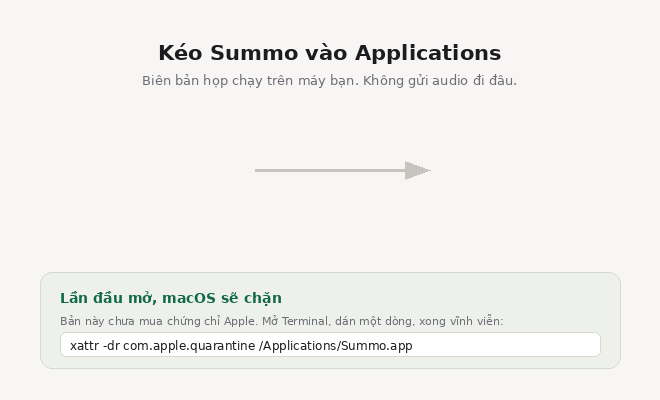
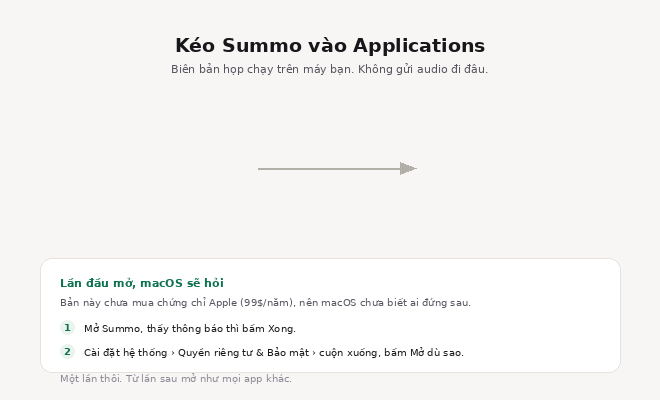
fix(macos): the first launch never needed a terminal
The disk image told a first-time Mac user to open Terminal and paste a command. The README said the
same, and so did the download page. It was wrong, and the check that was supposed to establish it
had only read one line of one tool's output.

Asked properly — `syspolicy_check`, which ships with macOS and exists for this question:

    /Applications/Summo.app: valid on disk
    /Applications/Summo.app: satisfies its Designated Requirement
    Adhoc Signed App — Severity: Warning
    Notary Ticket Missing

`spctl` answering `rejected` means "will not open on its own". It does not mean "cannot be opened".
A signature that is valid but vouched for by nobody gets the "cannot verify the developer" dialog
and an **Open Anyway** button in System Settings; only a *broken* signature gets "is damaged", where
that button never appears and a terminal is the only way through. v0.2.0 was exactly that — it was
not signed at all — and the wording written for it outlived the bug by four releases.

So the `.dmg` window now names the two buttons to press, and it is drawn by
`scripts/dmg-background.py` rather than being a PNG nobody can regenerate. The command stays in the
README for whoever prefers typing.

What actually removes the step is a Developer ID and notarisation, $99 a year — which is what every
comparable app has, and the honest answer to "why do those not ask me to do anything".

diff --git a/scripts/dmg-background.py b/scripts/dmg-background.py
@@ -1,0 +1,123 @@
+#!/usr/bin/env python3
+"""The picture inside the disk image, drawn rather than checked in as a mystery.
+
+    python3 scripts/dmg-background.py
+
+It is the first thing a Mac user sees, and until now it told them to open Terminal:
+
+    Lần đầu mở, macOS sẽ chặn
+    Bản này chưa mua chứng chỉ Apple. Mở Terminal, dán một dòng, xong vĩnh viễn:
+    xattr -dr com.apple.quarantine /Applications/Summo.app
+
+That is not what macOS does, and asking somebody to paste a command into a terminal to open a
+meeting-notes app loses most of them at the first step. Asked directly, macOS says the signature is
+fine:
+
+    /Applications/Summo.app: valid on disk
+    /Applications/Summo.app: satisfies its Designated Requirement
+    syspolicy_check: Adhoc Signed App — Severity: Warning
+                     Notary Ticket Missing
+
+A *valid* signature that nobody vouches for gets the "cannot be opened because Apple cannot check
+it" dialog and an **Open Anyway** button in System Settings. Only a *broken* signature gets "is
+damaged", where that button never appears and a terminal is the only way through — which is what
+v0.2.0 shipped, and which is where the wording came from and stayed after the cause was fixed.
+
+So the panel says which two buttons to press. The command stays in the README for whoever prefers
+it; it is not what a first-time user should be reading.
+
+Both sizes are written: the `@2x` is what a Retina Mac actually shows, and it is the one that was
+half a version behind last time somebody edited these by hand.
+"""
+
+from pathlib import Path
+
+from PIL import Image, ImageDraw, ImageFont
+
+HERE = Path(__file__).resolve().parent.parent
+OUT = HERE / "apps/desktop/src-tauri/dmg"
+
+# The window is 660×400; `tauri.conf.json` puts the app at x=180 and Applications at x=480, both at
+# y=170, so everything drawn here has to stay out of the band between them.
+SIZE = (660, 400)
+
+PAPER = (247, 246, 244)
+INK = (23, 22, 26)
+DIM = (86, 84, 94)
+FAINT = (140, 137, 148)
+ACCENT = (15, 115, 80)
+LINE = (230, 227, 222)
+CARD = (255, 255, 255)
+
+FONTS = "/usr/share/fonts/truetype"
+
+
+def font(name: str, size: int) -> ImageFont.FreeTypeFont:
+    """A face that can draw Vietnamese. DejaVu has the diacritics; Liberation does not."""
+    return ImageFont.truetype(f"{FONTS}/dejavu/{name}", size)
+
+
+def rounded(draw: ImageDraw.ImageDraw, box, radius, fill, outline=None, width=1) -> None:
+    draw.rounded_rectangle(box, radius=radius, fill=fill, outline=outline, width=width)
+
+
+def compose(scale: int) -> Image.Image:
+    image = Image.new("RGB", (SIZE[0] * scale, SIZE[1] * scale), PAPER)
+    draw = ImageDraw.Draw(image)
+
+    def at(x: float, y: float) -> tuple[float, float]:
+        return (x * scale, y * scale)
+
+    def text(x, y, string, face, fill, anchor="la") -> None:
+        draw.text(at(x, y), string, font=face, fill=fill, anchor=anchor)
+
+    title = font("DejaVuSans-Bold.ttf", 19 * scale)
+    lead = font("DejaVuSans.ttf", 11 * scale)
+    label = font("DejaVuSans-Bold.ttf", 11 * scale)
+    body = font("DejaVuSans.ttf", 10 * scale)
+    step = font("DejaVuSans-Bold.ttf", 10 * scale)
+
+    text(330, 34, "Kéo Summo vào Applications", title, INK, anchor="ma")
+    text(330, 62, "Biên bản họp chạy trên máy bạn. Không gửi audio đi đâu.", lead, DIM, anchor="ma")
+
+    # The arrow between the two icons, which Finder draws at y=170.
+    y = 168
+    draw.line([at(258, y), at(400, y)], fill=(178, 175, 168), width=2 * scale)
+    draw.polygon(
+        [at(400, y - 6), at(416, y), at(400, y + 6)],
+        fill=(178, 175, 168),
+    )
+
+    # What happens the first time, in the two presses it actually takes.
+    top = 258
+    rounded(draw, [at(40, top), at(620, 372)], 12 * scale, CARD, LINE, max(1, scale))
+
+    text(60, top + 18, "Lần đầu mở, macOS sẽ hỏi", label, ACCENT)
+    text(
+        60,
+        top + 38,
+        "Bản này chưa mua chứng chỉ Apple (99$/năm), nên macOS chưa biết ai đứng sau.",
+        body,
+        DIM,
+    )
+
+    for index, (number, line) in enumerate(
+        [
+            ("1", "Mở Summo, thấy thông báo thì bấm Xong."),
+            ("2", "Cài đặt hệ thống › Quyền riêng tư & Bảo mật › cuộn xuống, bấm Mở dù sao."),
+        ]
+    ):
+        row = top + 62 + index * 24
+        draw.ellipse([at(60, row), at(74, row + 14)], fill=(235, 243, 239))
+        text(67, row + 7, number, step, ACCENT, anchor="mm")
+        text(84, row + 2, line, body, INK)
+
+    text(60, top + 114, "Một lần thôi. Từ lần sau mở như mọi app khác.", body, FAINT)
+
+    return image
+
+
+for scale, name in ((1, "background.png"), (2, "background@2x.png")):
+    picture = compose(scale)
+    picture.save(OUT / name)
+    print(f"{name} — {picture.size[0]}×{picture.size[1]}")

diff --git a/README.vi.md b/README.vi.md
@@ -87,20 +87,29 @@ phát hành, đánh dấu nó đúng như trình duyệt đánh dấu file tải
 
 ```
 Signature=adhoc
-/Applications/Summo.app: rejected      (spctl, macOS 26.5)
+/Applications/Summo.app: rejected            (spctl)
+/Applications/Summo.app: valid on disk       (codesign --verify --deep --strict)
+/Applications/Summo.app: satisfies its Designated Requirement
+Adhoc Signed App — Severity: Warning         (syspolicy_check, macOS 26.5)
+Notary Ticket Missing
 ```
 
-`rejected`, không phải "cảnh báo rồi cho đi tiếp". Chữ ký ad-hoc đủ để nhân Apple Silicon chịu *nạp*
-binary — không có nó thì máy từ chối thẳng với "Summo is damaged and can't be opened" — nhưng
-Gatekeeper vẫn chặn bản tải về, vì không có chứng chỉ Apple đứng sau. Một dòng, một lần:
+Bốn dòng đó nói hai chuyện khác nhau, và trước đây README này chỉ đọc dòng đầu. `rejected` nghĩa là
+**không tự mở**, không phải **không mở được**: chữ ký vẫn hợp lệ và đúng Designated Requirement, nên
+macOS hiện hộp thoại "không xác minh được nhà phát triển" và để lại nút **Mở dù sao** trong Cài đặt
+hệ thống › Quyền riêng tư & Bảo mật. Bấm một lần, xong vĩnh viễn.
+
+Chỉ khi chữ ký *hỏng* mới ra "Summo is damaged and can't be opened" — lúc đó không có nút nào cả và
+Terminal là đường duy nhất. Bản v0.2.0 đúng là như vậy, vì nó hoàn toàn không được ký; câu chữ dặn
+người dùng mở Terminal ra đời từ đó và ở lại lâu hơn nguyên nhân của nó.
+
+Nếu bạn thích gõ hơn là bấm, dòng này làm cùng việc:
 
 ```bash
 xattr -dr com.apple.quarantine /Applications/Summo.app
 ```
 
-Dòng này in sẵn trong cửa sổ của `.dmg`, ngay cạnh chỗ kéo thả, nên không phải đi tìm ở đâu cả.
-
-**Không có cách miễn phí nào bỏ được nó.** Đường chính thức của Apple là Developer ID + notarize,
+**Không có cách miễn phí nào bỏ hẳn bước đó.** Đường chính thức của Apple là Developer ID + notarize,
 99 đô một năm. Phần việc phía Summo đã làm xong và đang chờ: đặt bốn secret (`APPLE_CERTIFICATE`,
 `APPLE_CERTIFICATE_PASSWORD`, `APPLE_SIGNING_IDENTITY`, `APPLE_ID`/`APPLE_PASSWORD`/`APPLE_TEAM_ID`)
 là bản tag kế tiếp tự ký và tự notarize — xem `.github/workflows/release.yml`.

diff --git a/README.md b/README.md
@@ -86,22 +86,29 @@ and this is measured rather than assumed: `.github/workflows/gatekeeper.yml` dow
 
 ```
 Signature=adhoc
-/Applications/Summo.app: rejected      (spctl, macOS 26.5)
+/Applications/Summo.app: rejected            (spctl)
+/Applications/Summo.app: valid on disk       (codesign --verify --deep --strict)
+/Applications/Summo.app: satisfies its Designated Requirement
+Adhoc Signed App — Severity: Warning         (syspolicy_check, macOS 26.5)
+Notary Ticket Missing
 ```
 
-`rejected` — not "warned about and let through". The ad-hoc signature is what keeps Apple Silicon
-willing to *load* the binary at all; without one the kernel refuses it outright with "Summo is
-damaged and can't be opened". Gatekeeper still stops the downloaded copy, because nothing vouches
-for it. One line, once:
+Those lines say two different things, and this README used to read only the first. `rejected` means
+**will not open on its own**, not **cannot be opened**: the signature is valid and satisfies its
+Designated Requirement, so macOS shows the "cannot verify the developer" dialog and leaves an **Open
+Anyway** button in System Settings › Privacy & Security. One press, once.
+
+Only a *broken* signature produces "Summo is damaged and can't be opened" — and there no button
+appears and a terminal is the only way through. v0.2.0 was exactly that, because it was not signed
+at all; the instruction to open Terminal was written for it and outlived its cause.
+
+If you would rather type than click, this does the same thing:
 
 ```bash
 xattr -dr com.apple.quarantine /Applications/Summo.app
 ```
 
-That line is printed inside the `.dmg` window, beside the icon you drag, so nobody has to find this
-page to get past it.
-
-**There is no free way around it.** Apple's path is a Developer ID plus notarisation, $99 a year.
+**There is no free way to remove the step entirely.** Apple's path is a Developer ID plus notarisation, $99 a year.
 Everything on this side of it is done and waiting: set four secrets — `APPLE_CERTIFICATE`,
 `APPLE_CERTIFICATE_PASSWORD`, `APPLE_SIGNING_IDENTITY`, and `APPLE_ID`/`APPLE_PASSWORD`/
 `APPLE_TEAM_ID` — and the next tag signs and notarises itself. See `.github/workflows/release.yml`.
